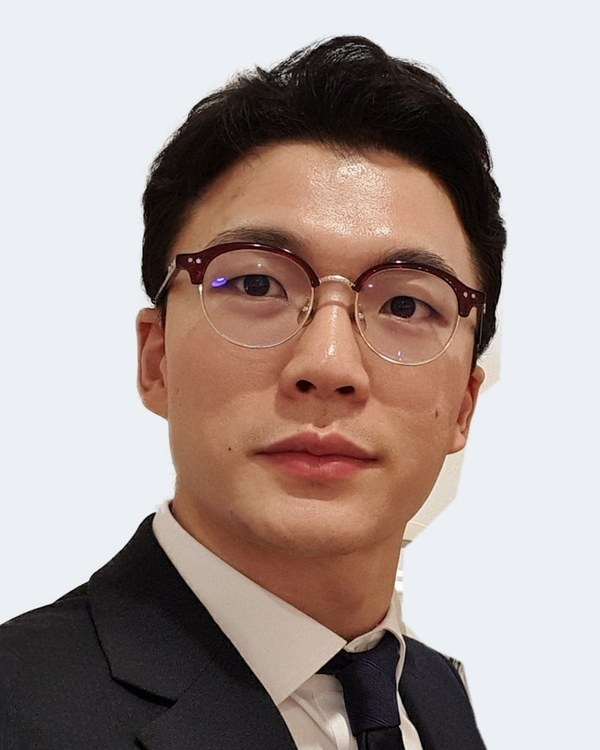
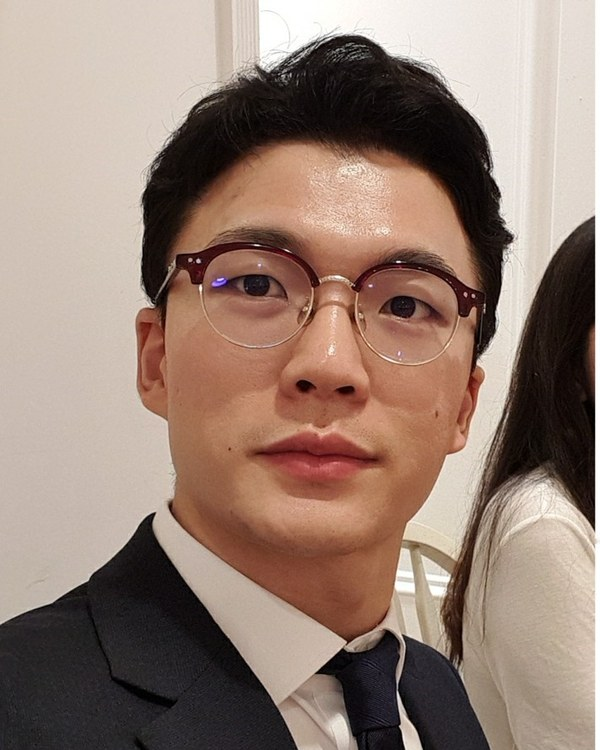
People: original photo backgrounds, smaller photos, remove start dates
Claude-Session: https://claude.ai/code/session_0193FsCwCBU5TNaPgPqdxirM

diff --git a/people.html b/people.html
@@ -68,37 +68,37 @@
           <div class="photo"><img src="assets/people/kimoon-nam.jpg" alt="Kimoon Nam"></div>
           <h3>Kimoon Nam</h3>
           <p>Postdoctoral Research Fellow</p>
-          <p class="since">Since March 2026 · Deep learning for laser materials processing</p>
+          <p class="since">Deep learning for laser materials processing</p>
         </div>
         <div class="member">
           <div class="photo"><img src="assets/people/myungrin-woo.jpg" alt="Myungrin Woo"></div>
           <h3>Myungrin Woo</h3>
           <p>M.S.–Ph.D. Student</p>
-          <p class="since">Since March 2021 · Deep learning for laser materials processing</p>
+          <p class="since">Deep learning for laser materials processing</p>
         </div>
         <div class="member">
           <div class="photo"><img src="assets/people/yeonsu-kim.jpg" alt="Yeonsu Kim"></div>
           <h3>Yeonsu Kim</h3>
           <p>M.S.–Ph.D. Student</p>
-          <p class="since">Since September 2021 · Deep learning for laser materials processing</p>
+          <p class="since">Deep learning for laser materials processing</p>
         </div>
         <div class="member">
           <div class="photo"><img src="assets/people/miri-yu.jpg" alt="Miri Yu"></div>
           <h3>Miri Yu</h3>
           <p>M.S.–Ph.D. Student</p>
-          <p class="since">Since March 2024 · Deep learning for laser materials processing</p>
+          <p class="since">Deep learning for laser materials processing</p>
         </div>
         <div class="member">
           <div class="photo"><img src="assets/people/jaewon-lee.jpg" alt="Jaewon Lee"></div>
           <h3>Jaewon Lee</h3>
           <p>M.S.–Ph.D. Student</p>
-          <p class="since">Since March 2025 · Deep learning for laser materials processing</p>
+          <p class="since">Deep learning for laser materials processing</p>
         </div>
         <div class="member">
           <div class="photo"><img src="assets/people/junhee-jang.jpg" alt="Junhee Jang"></div>
           <h3>Junhee Jang</h3>
           <p>M.S.–Ph.D. Student</p>
-          <p class="since">Since August 2026 · Deep learning for laser materials processing</p>
+          <p class="since">Deep learning for laser materials processing</p>
         </div>
       </div>
     </div>

diff --git a/assets/style.css b/assets/style.css
@@ -142,7 +142,7 @@ a:hover { color: var(--accent-dark); }
 
 /* People */
 .prof { display: flex; flex-wrap: wrap; gap: 40px; align-items: flex-start; }
-.prof-photo { flex: 0 0 220px; border-radius: 10px; overflow: hidden; background: #DDE2E8; }
+.prof-photo { flex: 0 0 170px; border-radius: 10px; overflow: hidden; background: #DDE2E8; }
 .prof-body { flex: 1 1 420px; min-width: 0; }
 .prof-body h3 { margin: 0 0 4px; font-size: 24px; color: var(--navy); }
 .prof-body .role { margin: 0 0 18px; color: var(--accent); font-weight: 500; }
@@ -150,14 +150,14 @@ a:hover { color: var(--accent-dark); }
 .cv li { display: flex; gap: 16px; padding: 8px 0; border-top: 1px solid var(--line); font-size: 15px; color: var(--body); }
 .cv li span:first-child { flex: 0 0 130px; color: var(--muted); }
 
-.members { display: grid; grid-template-columns: repeat(auto-fill, minmax(200px, 1fr)); gap: 24px; margin-top: 28px; }
+.members { display: grid; grid-template-columns: repeat(auto-fill, 150px); gap: 28px 32px; margin-top: 28px; }
 .member { display: flex; flex-direction: column; gap: 10px; }
 .member .photo {
   aspect-ratio: 4 / 5; border-radius: 10px; overflow: hidden; background: #DDE2E8;
   display: flex; align-items: center; justify-content: center; color: var(--muted); font-size: 32px; font-weight: 700;
 }
 .member .photo img { width: 100%; height: 100%; object-fit: cover; }
-.member h3 { margin: 0; font-size: 17px; color: var(--navy); }
+.member h3 { margin: 0; font-size: 16px; color: var(--navy); }
 .member p { margin: 0; font-size: 14px; color: var(--body); }
 .member .since { color: var(--muted); font-size: 13px; }
 
@@ -195,7 +195,8 @@ tr:last-child td { border-bottom: none; }
   .section { padding: 56px 0; }
   .hero .wrap { padding-top: 64px; padding-bottom: 56px; }
   .facts { grid-template-columns: 1fr; }
-  .prof-photo { flex-basis: 160px; }
+  .prof-photo { flex-basis: 140px; }
+  .members { grid-template-columns: repeat(auto-fill, minmax(130px, 1fr)); gap: 20px; }
   .cv li { flex-direction: column; gap: 0; }
   .cv li span:first-child { flex-basis: auto; }
 }
